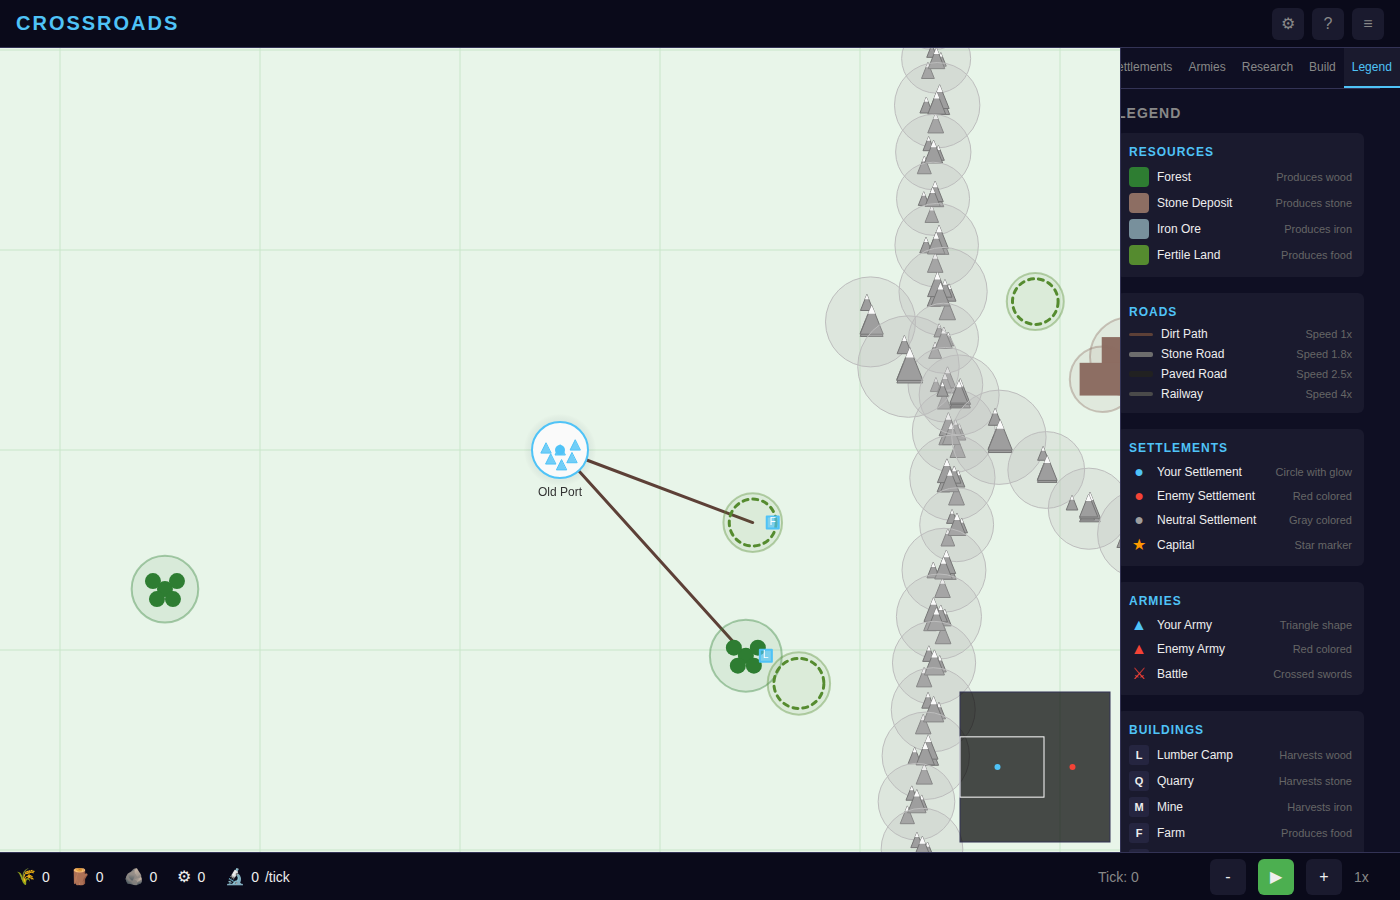
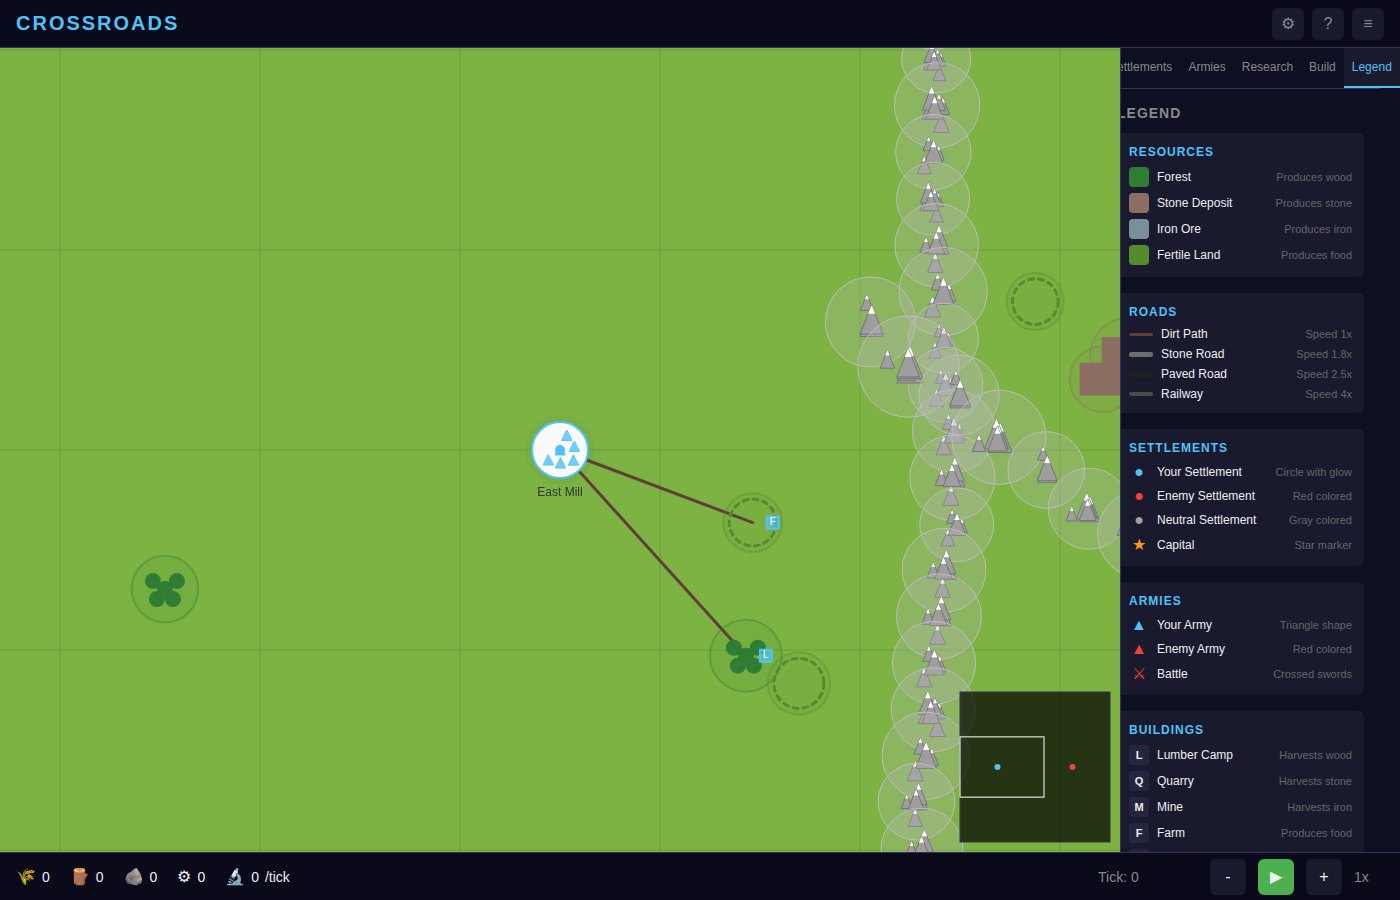
Darken background to grass green and use Geometry library for houses
- Change background from light green (#e8f5e9) to grass green (#7cb342)
- Refactor calculateHousePositions to use Geometry.generateHousePositions
- Remove ~70 lines of duplicate code from renderer.js
- Update screenshots with new grass-colored background

diff --git a/frontend/js/renderer.js b/frontend/js/renderer.js
@@ -11,8 +11,8 @@ class Renderer {
 
         // Colors from design doc
         this.colors = {
-            mapBackground: '#e8f5e9',  // Light green background
-            gridLines: '#c8e6c9',      // Slightly darker green grid
+            mapBackground: '#7cb342',  // Grass green background
+            gridLines: '#689f38',      // Slightly darker green grid
             selection: '#4fc3f7',
             selectionGlow: 'rgba(79, 195, 247, 0.3)',
 
@@ -317,6 +317,7 @@ class Renderer {
 
     /**
      * Calculate house positions within a settlement, avoiding resources
+     * Uses the Geometry library for consistent positioning
      * Returns { positions: array of {x, y}, boundingRadius: number }
      */
     calculateHousePositions(settlement, gameState) {
@@ -344,87 +345,11 @@ class Renderer {
             }
         }
 
-        const positions = [];
-
-        // Use a seeded pseudo-random to get consistent positions
+        // Use a seeded pseudo-random for consistent positions
         const seed = settlement.id ? this.hashString(settlement.id) : 12345;
-        let rng = seed;
 
-        const nextRandom = () => {
-            rng = (rng * 1103515245 + 12345) & 0x7fffffff;
-            return rng / 0x7fffffff;
-        };
-
-        // House spacing - increase to reduce overlap
-        const houseSpacing = 12; // Minimum distance between house centers
-        const baseRingSpacing = 15; // Base spacing between rings
-
-        // Try to place houses in rings from center outward
-        let placedHouses = 0;
-        let ring = 0;
-        const maxRings = 8;
-
-        while (placedHouses < numHouses && ring < maxRings) {
-            const ringRadius = (ring === 0) ? 0 : (ring * baseRingSpacing);
-            // Calculate how many houses fit in this ring with proper spacing
-            const circumference = 2 * Math.PI * ringRadius;
-            const housesInRing = (ring === 0) ? 1 : Math.max(3, Math.floor(circumference / houseSpacing));
-            const angleOffset = nextRandom() * Math.PI * 2;
-
-            for (let i = 0; i < housesInRing && placedHouses < numHouses; i++) {
-                const angle = angleOffset + (i / housesInRing) * Math.PI * 2;
-                // Reduced jitter to prevent overlap
-                const jitter = ring > 0 ? (nextRandom() - 0.5) * 4 : 0;
-                const houseX = x + Math.cos(angle) * (ringRadius + jitter);
-                const houseY = y + Math.sin(angle) * (ringRadius + jitter);
-
-                // Check if position is blocked by a resource
-                let blocked = false;
-                for (const area of blockedAreas) {
-                    const distToBlocked = Math.sqrt(
-                        Math.pow(houseX - area.x, 2) +
-                        Math.pow(houseY - area.y, 2)
-                    );
-                    if (distToBlocked < area.radius) {
-                        blocked = true;
-                        break;
-                    }
-                }
-
-                // Check distance from other placed houses to avoid overlap
-                for (const pos of positions) {
-                    const distToHouse = Math.sqrt(
-                        Math.pow(houseX - pos.x, 2) +
-                        Math.pow(houseY - pos.y, 2)
-                    );
-                    if (distToHouse < houseSpacing * 0.8) {
-                        blocked = true;
-                        break;
-                    }
-                }
-
-                if (!blocked) {
-                    positions.push({ x: houseX, y: houseY });
-                    placedHouses++;
-                }
-            }
-            ring++;
-        }
-
-        // Calculate actual bounding radius from placed houses
-        let maxDist = 20; // Minimum radius
-        for (const pos of positions) {
-            const dist = Math.sqrt(
-                Math.pow(pos.x - x, 2) + Math.pow(pos.y - y, 2)
-            );
-            if (dist > maxDist) {
-                maxDist = dist;
-            }
-        }
-        // Add padding for the house size and border
-        const boundingRadius = maxDist + 8;
-
-        return { positions, boundingRadius };
+        // Use the Geometry library for house positioning
+        return Geometry.generateHousePositions(x, y, numHouses, blockedAreas, seed);
     }
 
     /**
